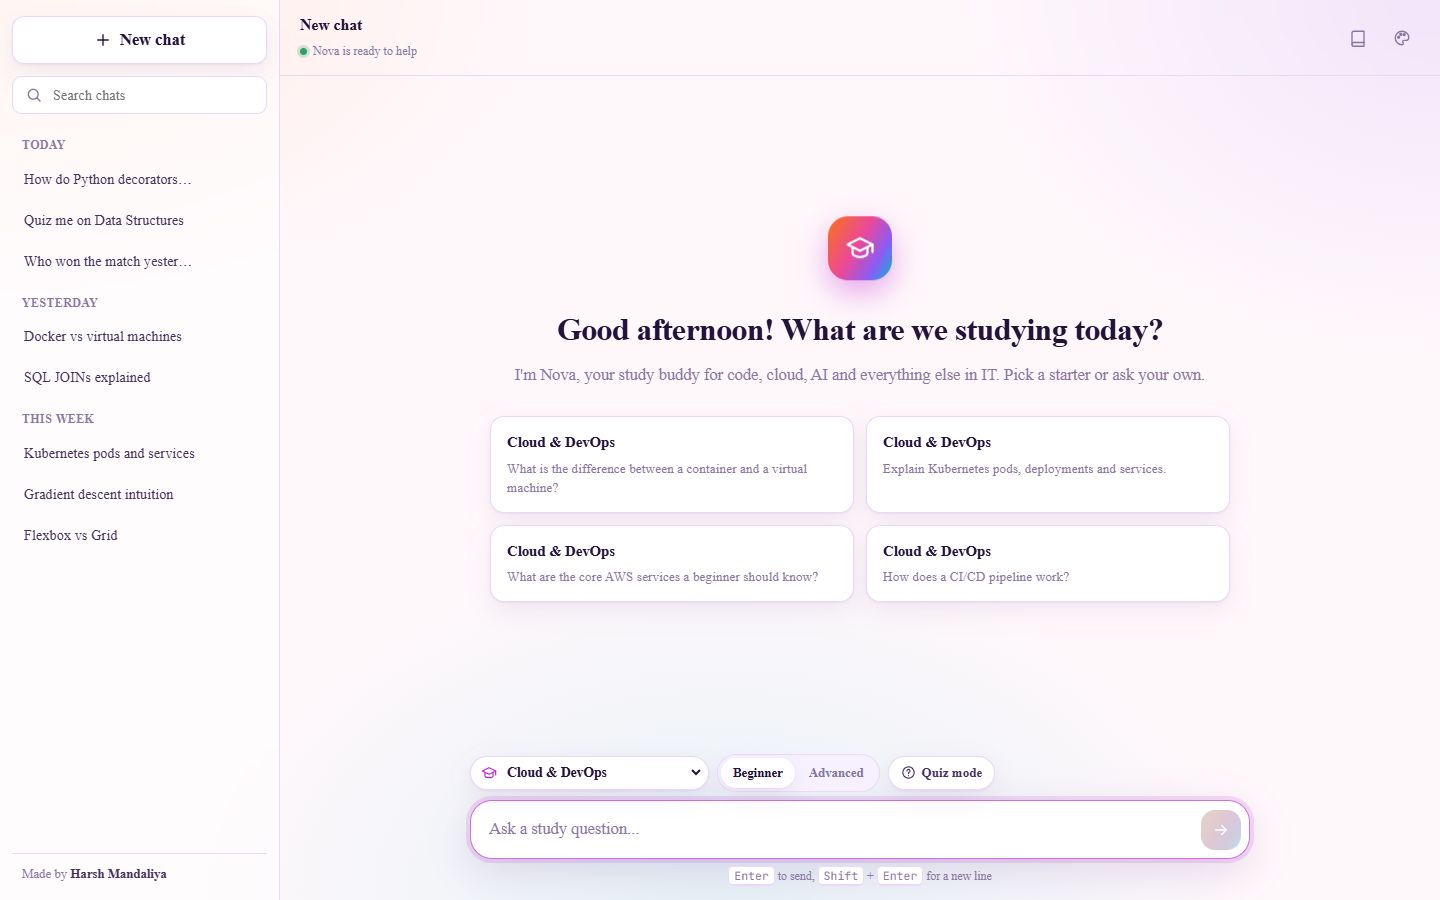
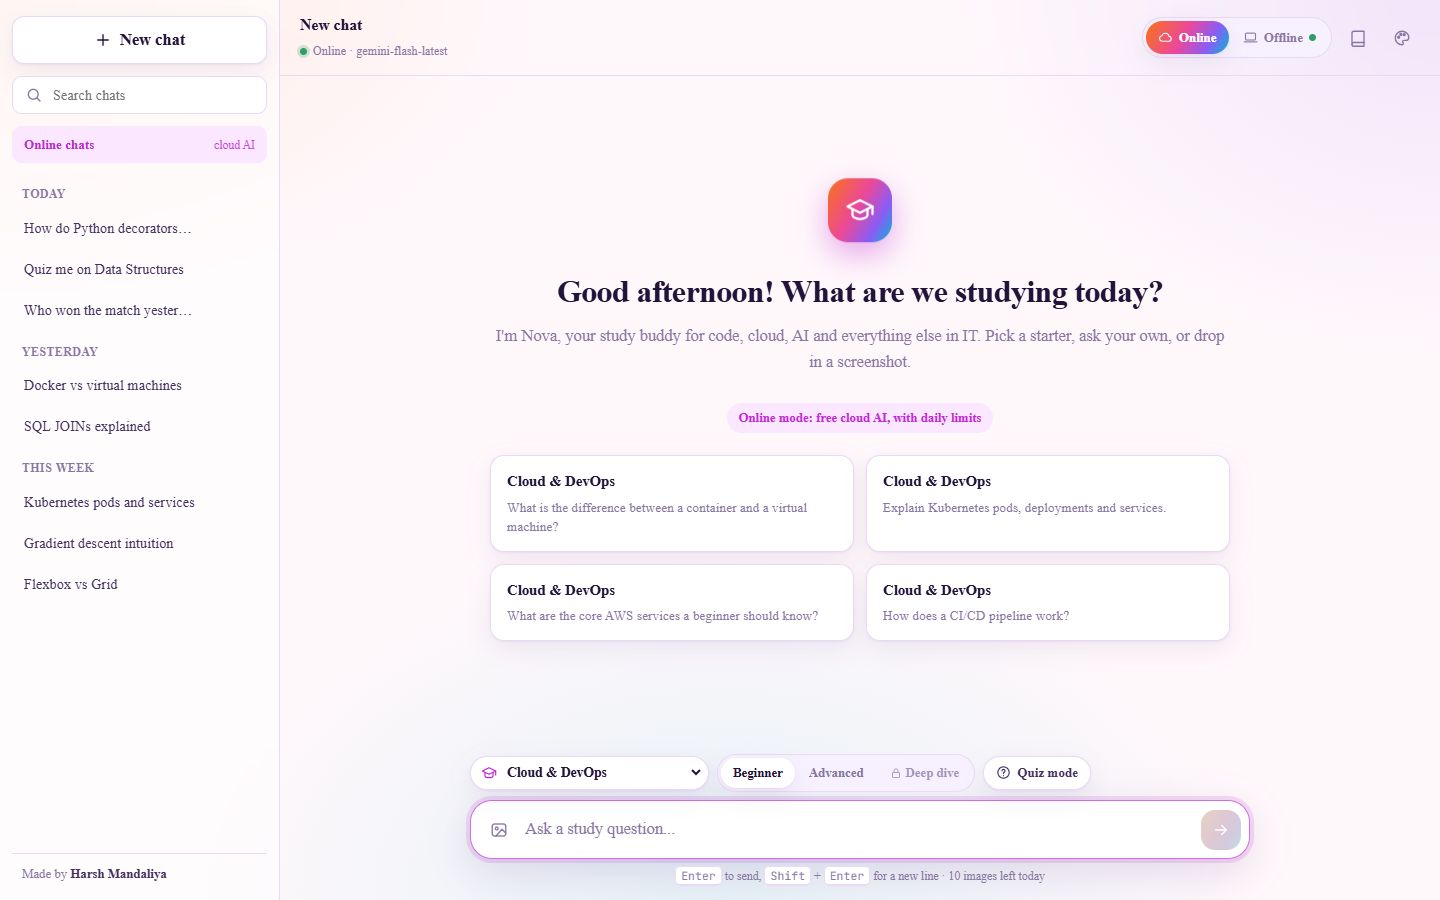
Document Online and Offline modes and refresh screenshots

diff --git a/README.md b/README.md
@@ -1,6 +1,13 @@
 # AI Study Assistant for IT Engineers
 
-A friendly study buddy for IT and engineering students. Ask about programming languages, web development, cloud, DevOps, AI and machine learning, data structures, databases, networking or system design, and get clear explanations with real code examples, streamed in as they're written.
+A friendly study buddy for IT and engineering students. Ask about programming languages, web development, cloud, DevOps, AI and machine learning, data structures, databases, networking or system design, and get clear explanations with real code examples, streamed in as they're written. Stuck on an error? Drop in a screenshot or a photo of your notes and it will read it and explain.
+
+It runs in two modes:
+
+- **Online**: a free cloud AI (Google Gemini). Needs internet and a free key, and comes with daily limits.
+- **Offline**: an AI model running on your own computer through [Ollama](https://ollama.com). No internet, no key and **no limits**: unlimited questions, unlimited screenshots and photos, and the extra **Deep dive** level.
+
+Each mode keeps its **own chat history**. Switch to Online and you only see your online chats; switch to Offline and you only see your offline ones.
 
 The assistant (called **Nova** by default) only does study. Ask it about films or cricket scores and it will kindly steer you back to tech. It talks like a patient senior engineer: warm, direct and to the point, without the stiff "As an AI language model..." tone.
 
@@ -10,6 +17,8 @@ The assistant (called **Nova** by default) only does study. Ask it about films o
 
 | | |
 |---|---|
+| ![Offline mode reading a screenshot](docs/screenshots/offline-image.jpg) | ![Offline mode welcome screen, Dark theme](docs/screenshots/offline-welcome.jpg) |
+| **Offline mode** reading an uploaded screenshot of an error, with its own chat history | **Offline mode** with Deep dive unlocked, Dark theme |
 | ![Dark theme](docs/screenshots/chat-dark.jpg) | ![Quiz mode in the Blue theme](docs/screenshots/quiz-blue.jpg) |
 | **Dark theme** with syntax-highlighted code | **Quiz mode** in the Blue theme, with a running score |
 | ![Multicolor theme with the Classic font](docs/screenshots/multicolor-classic.jpg) | ![Theme and font menu](docs/screenshots/themes-menu.jpg) |
@@ -17,33 +26,50 @@ The assistant (called **Nova** by default) only does study. Ask it about films o
 | ![Welcome screen with Python starters](docs/screenshots/welcome-light.jpg) | ![Mobile layout](docs/screenshots/mobile.jpg) |
 | **Welcome screen** with starter questions for the chosen subject | **Mobile layout** |
 
+## Online vs Offline
+
+| | Online | Offline |
+|---|---|---|
+| Where the AI runs | Google's servers (free tier) | Your own computer (Ollama) |
+| Internet needed | Yes | No |
+| API key | Free Gemini key | None |
+| Messages | 20 per minute | Unlimited |
+| Screenshots and photos | 10 per day | Unlimited |
+| Levels | Beginner, Advanced | Beginner, Advanced, **Deep dive** |
+| Context it remembers | Last 20 messages | Last 60 messages |
+| Quick definitions | Wikipedia | The local model |
+| Chat history | Online chats only | Offline chats only |
+
+All the online limits can be changed in `backend/.env`.
+
 ## Features
 
 **Study tools**
 - **Subject picker** with 11 areas: HTML & CSS, JavaScript & TypeScript, Python, Java/C/C++/Go and more, Data Structures & Algorithms, Databases & SQL, Cloud & DevOps (AWS, Azure, GCP, Docker, Kubernetes), AI & Machine Learning, Networking & Security, System Design, or all topics
-- **Beginner / Advanced** switch that changes how deep and technical the explanations get
+- **Beginner / Advanced / Deep dive** levels. Deep dive (Offline) goes all the way: intuition, internals, maths, worked examples, edge cases and interview questions
+- **Screenshots and photos**: attach, paste (Ctrl+V) or drag in images of code, errors, diagrams or notes, and ask about them
 - **Quiz mode**: multiple-choice questions one at a time, with feedback and a running score
 - **Starter questions** for every subject, so you're never staring at a blank box
-- **Quick definitions** for any term, pulled from Wikipedia (free, no key needed)
+- **Quick definitions** for any term
 - **Syntax-highlighted code blocks** with a one-click copy button
 - **Study only**: off-topic questions get a friendly redirect back to tech
 
 **Look and feel**
 - Four themes: **White**, **Dark**, **Blue** and **Multicolor**
 - Two fonts: **Modern** (sans-serif) and **Classic** (Times New Roman)
-- Your theme, font, subject and level are remembered in the browser
+- Fonts are bundled with the app, so it looks the same with no internet
+- Your mode, theme, font, subject and level are remembered in the browser
 - Replies stream in live, with a typing indicator, a stop button and retry on errors
-- Saved chat history in a sidebar, grouped by day, with search, rename and delete
+- Separate saved chat history for each mode, grouped by day, with search, rename and delete
 - Works well on phones: the sidebar becomes a slide-out drawer
-- Smooth, subtle animations that respect "reduce motion"
 
 **Backend**
 - REST API built with FastAPI, plus a streaming endpoint using server-sent events
-- Chats stored with SQLAlchemy (SQLite out of the box, Postgres if you want)
+- Chats and uploads stored locally (SQLite out of the box, Postgres if you want)
+- Uploaded images are checked to be real PNG, JPG, WebP or GIF files
 - Validation on every request, with clear error messages in one consistent shape
-- Per-client rate limiting, so nobody can burn through your free quota
-- Works with any OpenAI-compatible provider: **Google Gemini** (default), Groq, or a local Ollama
-- A demo mode that runs without any API key, handy for trying the UI
+- Rate limiting and a daily image cap for Online mode, none for Offline
+- A demo mode that runs without any key, handy for trying the UI
 - Secrets live in `.env`, which is never committed
 
 ## Tech stack
@@ -53,28 +79,38 @@ The assistant (called **Nova** by default) only does study. Ask it about films o
 | Frontend  | React 19, TypeScript, Vite, Framer Motion, react-markdown, highlight.js |
 | Backend   | Python, FastAPI, SQLAlchemy, Pydantic, OpenAI Python SDK, httpx |
 | Database  | SQLite (default) or PostgreSQL |
-| AI model  | Google Gemini free tier by default; any OpenAI-compatible API works |
+| Online AI | Google Gemini free tier (Groq also works) |
+| Offline AI | Ollama with Gemma 3 4B (understands text and images) |
 | Extras    | Wikipedia REST API for quick definitions |
 
-## Free APIs used
+## Free APIs and tools used
 
 | Service | What it's for | Cost | Key |
 |---------|---------------|------|-----|
-| [Google Gemini](https://aistudio.google.com/app/apikey) | The tutor's answers (default) | Free tier | Yes, free |
-| [Groq](https://console.groq.com/keys) | Alternative model provider (Llama 3.3) | Free tier | Yes, free |
-| [Ollama](https://ollama.com) | Run a model on your own machine | Free | No |
-| [Wikipedia](https://en.wikipedia.org/api/rest_v1/) | Quick definitions | Free | No |
+| [Google Gemini](https://aistudio.google.com/app/apikey) | Online mode answers and image reading | Free tier | Yes, free |
+| [Ollama](https://ollama.com) + [Gemma 3](https://ollama.com/library/gemma3) | Offline mode, on your computer | Free, open model | No |
+| [Groq](https://console.groq.com/keys) | Alternative online provider (text only) | Free tier | Yes, free |
+| [Wikipedia](https://en.wikipedia.org/api/rest_v1/) | Quick definitions online | Free | No |
 
 ## Getting started
 
-You'll need **Python 3.11+** and **Node.js 20+**.
+You'll need **Python 3.11+** and **Node.js 20+**. Set up one mode or both.
 
-### 1. Get a free Gemini key
+### 1a. Online mode: get a free Gemini key
 
 1. Go to [Google AI Studio](https://aistudio.google.com/app/apikey) and sign in with a Google account.
-2. Click **Create API key** and copy it.
+2. Click **Create API key** and copy it. No card needed.
 
-That's it, no card needed. Prefer Groq? Grab a free key at [console.groq.com/keys](https://console.groq.com/keys) instead.
+### 1b. Offline mode: install Ollama and a model (one time)
+
+1. Download and install Ollama from [ollama.com/download](https://ollama.com/download), then open it.
+2. In a terminal, download the model (about 3 GB):
+
+   ```bash
+   ollama pull gemma3:4b
+   ```
+
+`gemma3:4b` understands text and images and runs on a normal laptop with 8 GB of RAM. With more memory you can try `gemma3:12b` for better answers, or `qwen2.5-coder:7b` for code (text only). Set your choice in `OFFLINE_MODEL`.
 
 ### 2. Backend
 
@@ -87,25 +123,9 @@ python -m venv .venv
 source .venv/bin/activate
 
 pip install -r requirements.txt
-cp .env.example .env      # then paste your key into LLM_API_KEY
+cp .env.example .env      # paste your Gemini key into LLM_API_KEY for Online mode
 uvicorn app.main:app --reload --port 8000
 ```
-
-To use Groq instead of Gemini, change these lines in `backend/.env`:
-
-```env
-LLM_BASE_URL=https://api.groq.com/openai/v1
-LLM_MODEL=llama-3.3-70b-versatile
-```
-
-Or run everything locally with [Ollama](https://ollama.com):
-
-```env
-LLM_BASE_URL=http://localhost:11434/v1
-LLM_MODEL=llama3.2
-```
-
-Leave the key empty and the server starts in demo mode, so you can still click around.
 
 ### 3. Frontend
 
@@ -115,7 +135,9 @@ npm install
 npm run dev
 ```
 
-Open http://localhost:5173. Vite forwards `/api` requests to the backend on port 8000.
+Open http://localhost:5173 and pick **Online** or **Offline** at the top right. If Offline isn't set up yet, the app shows the steps above and a "Check again" button.
+
+Leave the key empty and Online mode runs as a demo, so you can still click around.
 
 ### Useful commands
 
@@ -132,15 +154,21 @@ All settings live in `backend/.env` (see `backend/.env.example`):
 
 | Variable | Default | Purpose |
 |----------|---------|---------|
-| `LLM_BASE_URL` | Gemini | Any OpenAI-compatible endpoint |
-| `LLM_API_KEY` | empty | Your provider key. Empty means demo mode |
-| `LLM_MODEL` | `gemini-flash-latest` | Model name at your provider |
+| `LLM_BASE_URL` | Gemini | Online: any OpenAI-compatible endpoint |
+| `LLM_API_KEY` | empty | Online: your provider key. Empty means demo mode |
+| `LLM_MODEL` | `gemini-flash-latest` | Online: model name at your provider |
+| `RATE_LIMIT_PER_MINUTE` | `20` | Online: messages per minute |
+| `ONLINE_IMAGES_PER_DAY` | `10` | Online: screenshots and photos per day |
+| `MAX_HISTORY_MESSAGES` | `20` | Online: how much of the chat the model sees |
+| `OFFLINE_BASE_URL` | `http://localhost:11434/v1` | Offline: where Ollama is listening |
+| `OFFLINE_MODEL` | `gemma3:4b` | Offline: which local model to use |
+| `OFFLINE_MAX_HISTORY_MESSAGES` | `60` | Offline: how much of the chat the model sees |
 | `LLM_TEMPERATURE` | `0.7` | Higher is more playful, lower is more focused |
 | `ASSISTANT_NAME` | `Nova` | What the tutor calls itself |
 | `DATABASE_URL` | `sqlite:///./chat.db` | Where chats are stored |
+| `UPLOAD_DIR` | `uploads` | Where uploaded images are stored |
+| `MAX_IMAGE_MB` | `8` | Largest image allowed |
 | `CORS_ORIGINS` | `http://localhost:5173` | Allowed web origins |
-| `RATE_LIMIT_PER_MINUTE` | `20` | Messages per client per minute |
-| `MAX_HISTORY_MESSAGES` | `20` | How much of the chat the model sees |
 
 Want to change the tutor's personality or the subject list? Edit `backend/app/persona.py` and `backend/app/subjects.py`.
 
@@ -149,14 +177,16 @@ Want to change the tutor's personality or the subject list? Edit `backend/app/pe
 | Method | Route | Description |
 |--------|-------|-------------|
 | `GET` | `/api/health` | Server status, model name and demo flag |
+| `GET` | `/api/engines` | What Online and Offline can do right now, their limits, and images left today |
 | `GET` | `/api/subjects` | Study subjects with starter questions |
-| `GET` | `/api/define?term=...` | A short definition from Wikipedia |
-| `GET` | `/api/conversations` | List your chats, newest first |
-| `POST` | `/api/conversations` | Start a new chat |
+| `GET` | `/api/define?term=...&engine=online` | A short definition (Wikipedia online, local model offline) |
+| `GET` | `/api/conversations?engine=online` | Your chats for one mode, newest first |
+| `POST` | `/api/conversations` | Start a new chat. Body: `{"engine": "online"}` or `"offline"` |
 | `GET` | `/api/conversations/{id}` | A chat with all its messages |
 | `PATCH` | `/api/conversations/{id}` | Rename a chat |
 | `DELETE` | `/api/conversations/{id}` | Delete a chat |
-| `POST` | `/api/conversations/{id}/messages` | Send a question and stream the answer. Body: `content`, plus optional `subject`, `level` (`beginner` / `advanced`) and `mode` (`chat` / `quiz`) |
+| `POST` | `/api/conversations/{id}/messages` | Send a question and stream the answer. Body: `content`, `engine`, optional `images` (data URLs), `subject`, `level` (`beginner` / `advanced` / `deep`) and `mode` (`chat` / `quiz`) |
+| `GET` | `/api/uploads/{name}` | An uploaded image |
 
 Each browser sends a random `X-Client-Id` header that it keeps in local storage, so visitors only ever see their own chats. Interactive docs are at http://localhost:8000/docs while the server runs.
 
@@ -166,24 +196,26 @@ Each browser sends a random `X-Client-Id` header that it keeps in local storage,
 backend/
   app/
     main.py          app setup, CORS, error handling
-    config.py        settings read from .env
+    config.py        settings read from .env (online and offline)
     persona.py       the tutor's voice, levels and quiz mode
     subjects.py      study subjects and starter questions
-    llm.py           streaming answers from the model provider
-    rate_limit.py    sliding-window rate limiter
+    llm.py           streaming answers from Gemini or the local model
+    images.py        checking and storing uploaded images
+    rate_limit.py    sliding-window rate limiter for Online mode
     models.py        Conversation and Message tables
     schemas.py       request and response validation
     routes/          chat, conversation and study endpoints
   tests/             API tests
 frontend/
   src/
-    App.tsx          layout and top bar
-    hooks/useChat.ts chat state, streaming and history
-    lib/             API client, themes and fonts
-    components/      sidebar, messages, code blocks, study bar, menus
+    App.tsx          layout, top bar and mode switch
+    hooks/useChat.ts chat state, streaming and per-mode history
+    lib/             API client, themes, fonts and image resizing
+    components/      sidebar, messages, composer, study bar, menus
     styles.css       base design tokens (White and Dark)
     themes.css       Blue, Multicolor and the Classic font
     study.css        study bar, popovers and code highlighting
+    modes.css        mode switch, attachments and offline setup
 docs/screenshots/    images used in this README
 ```
 
